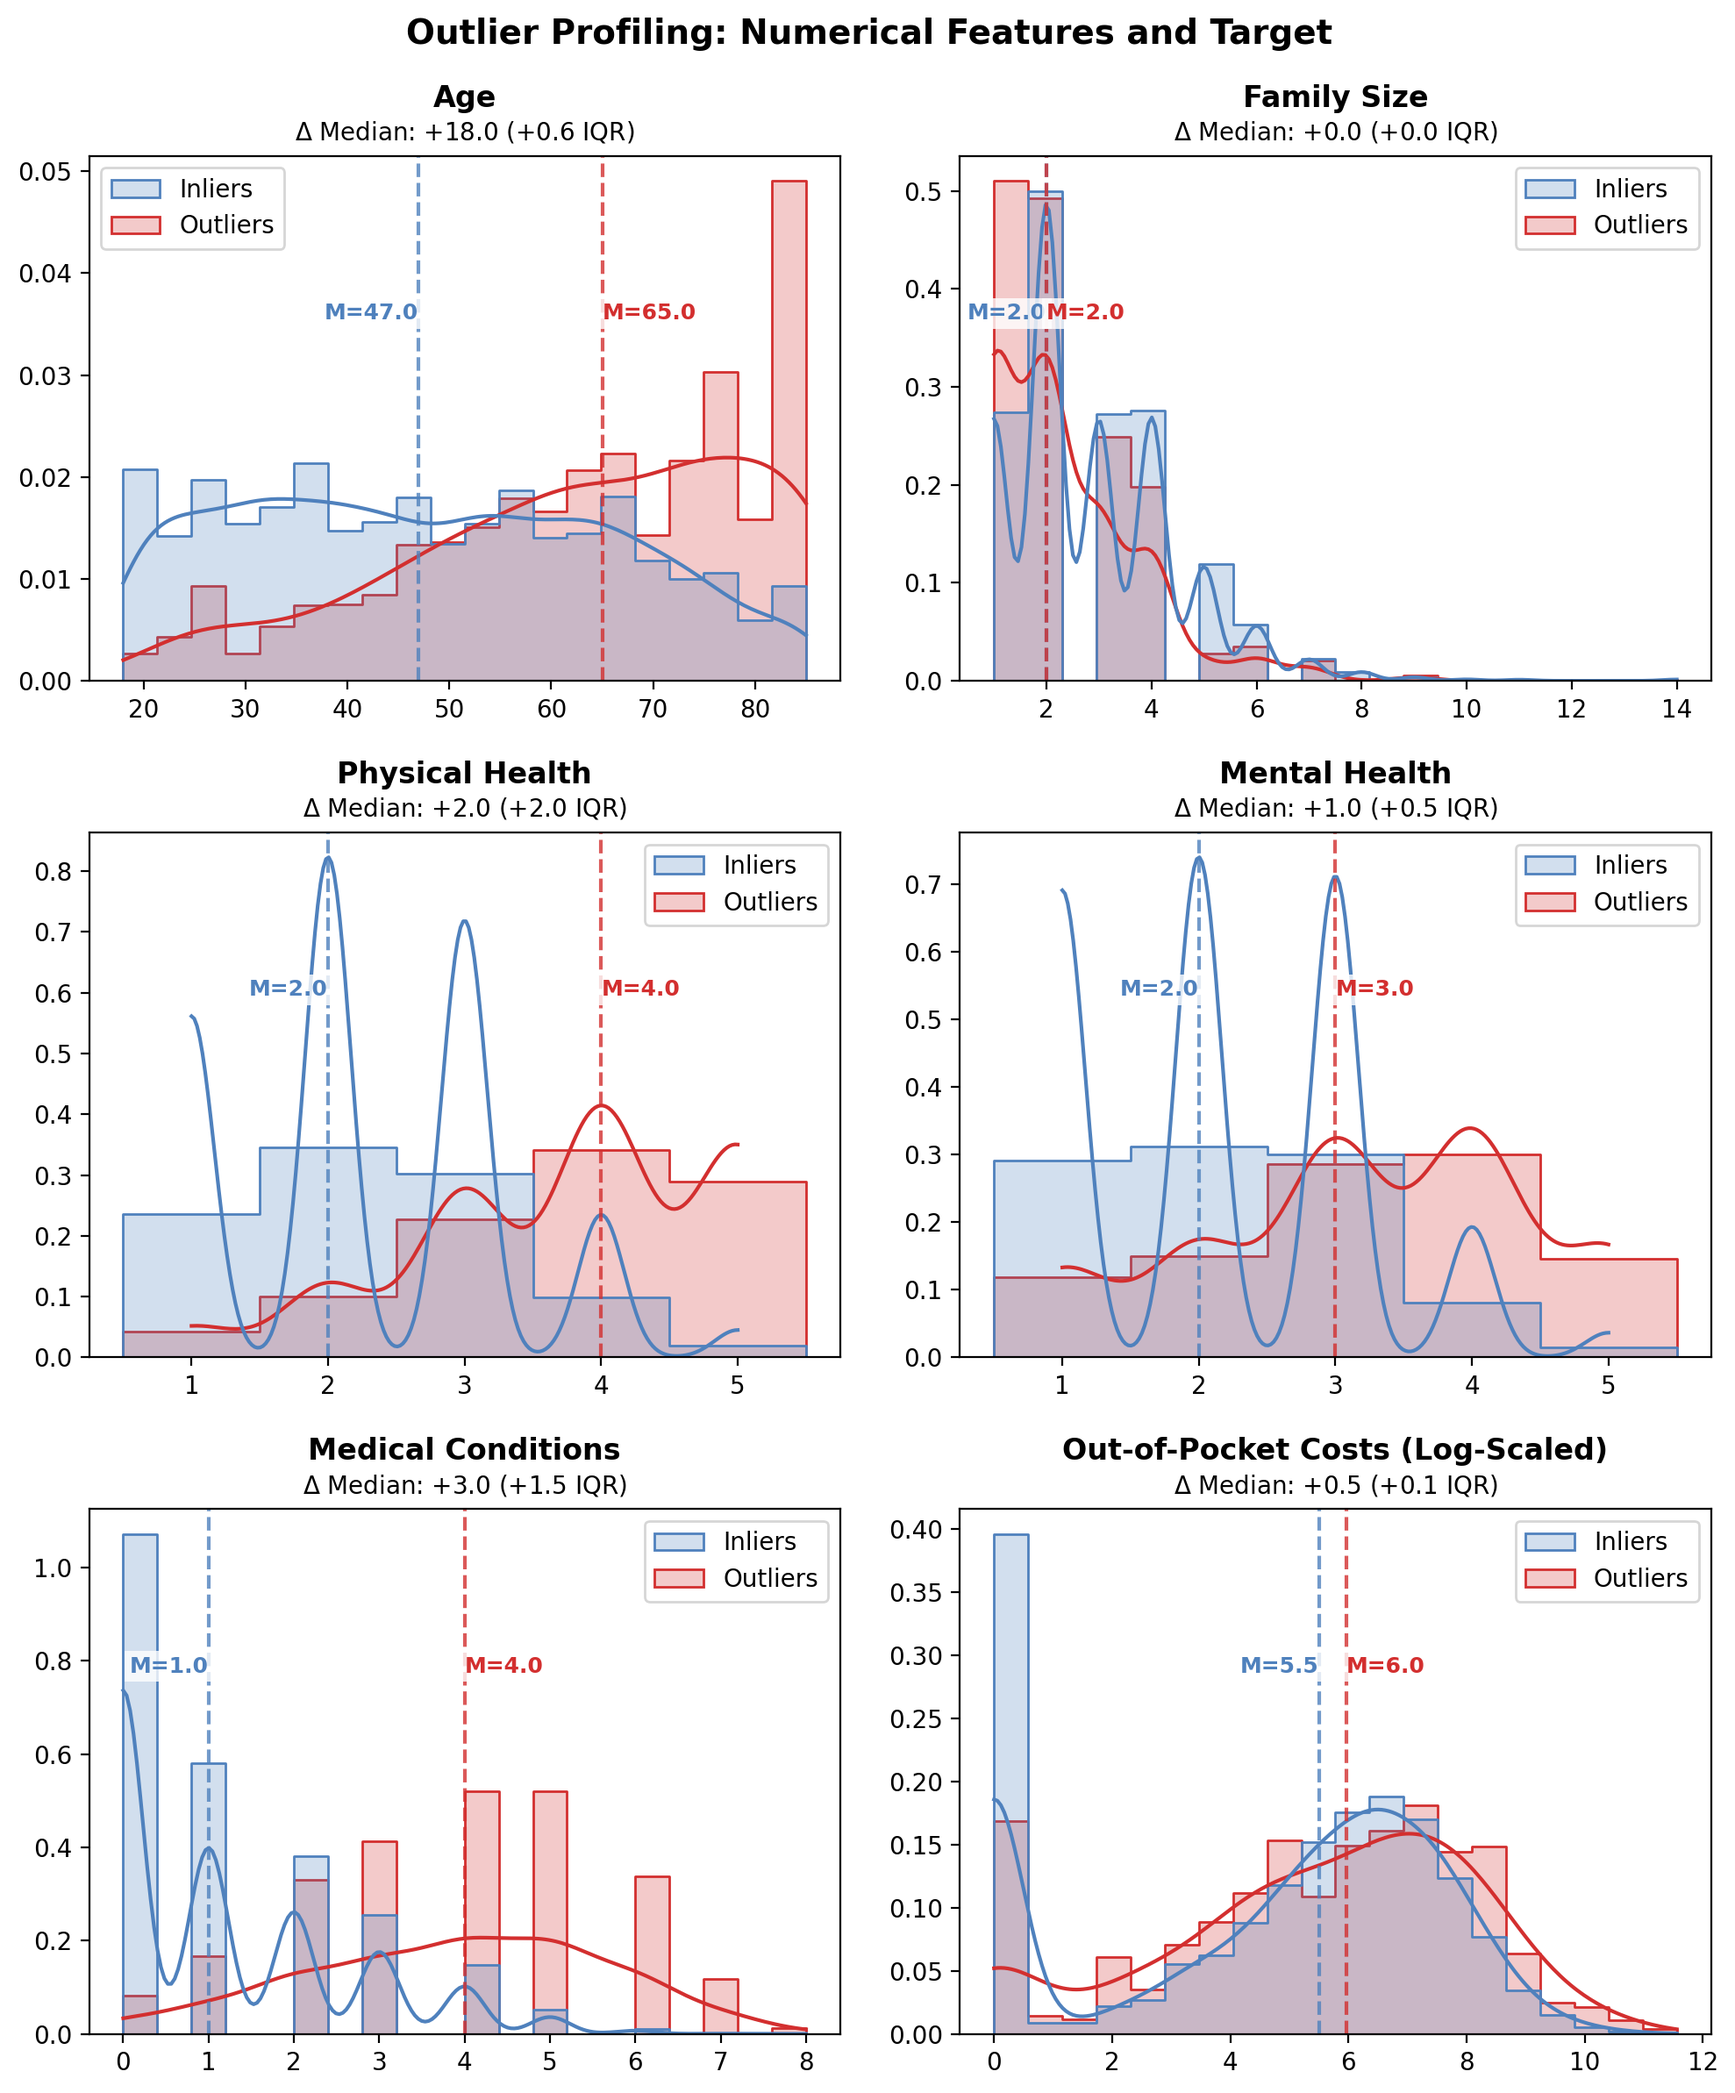
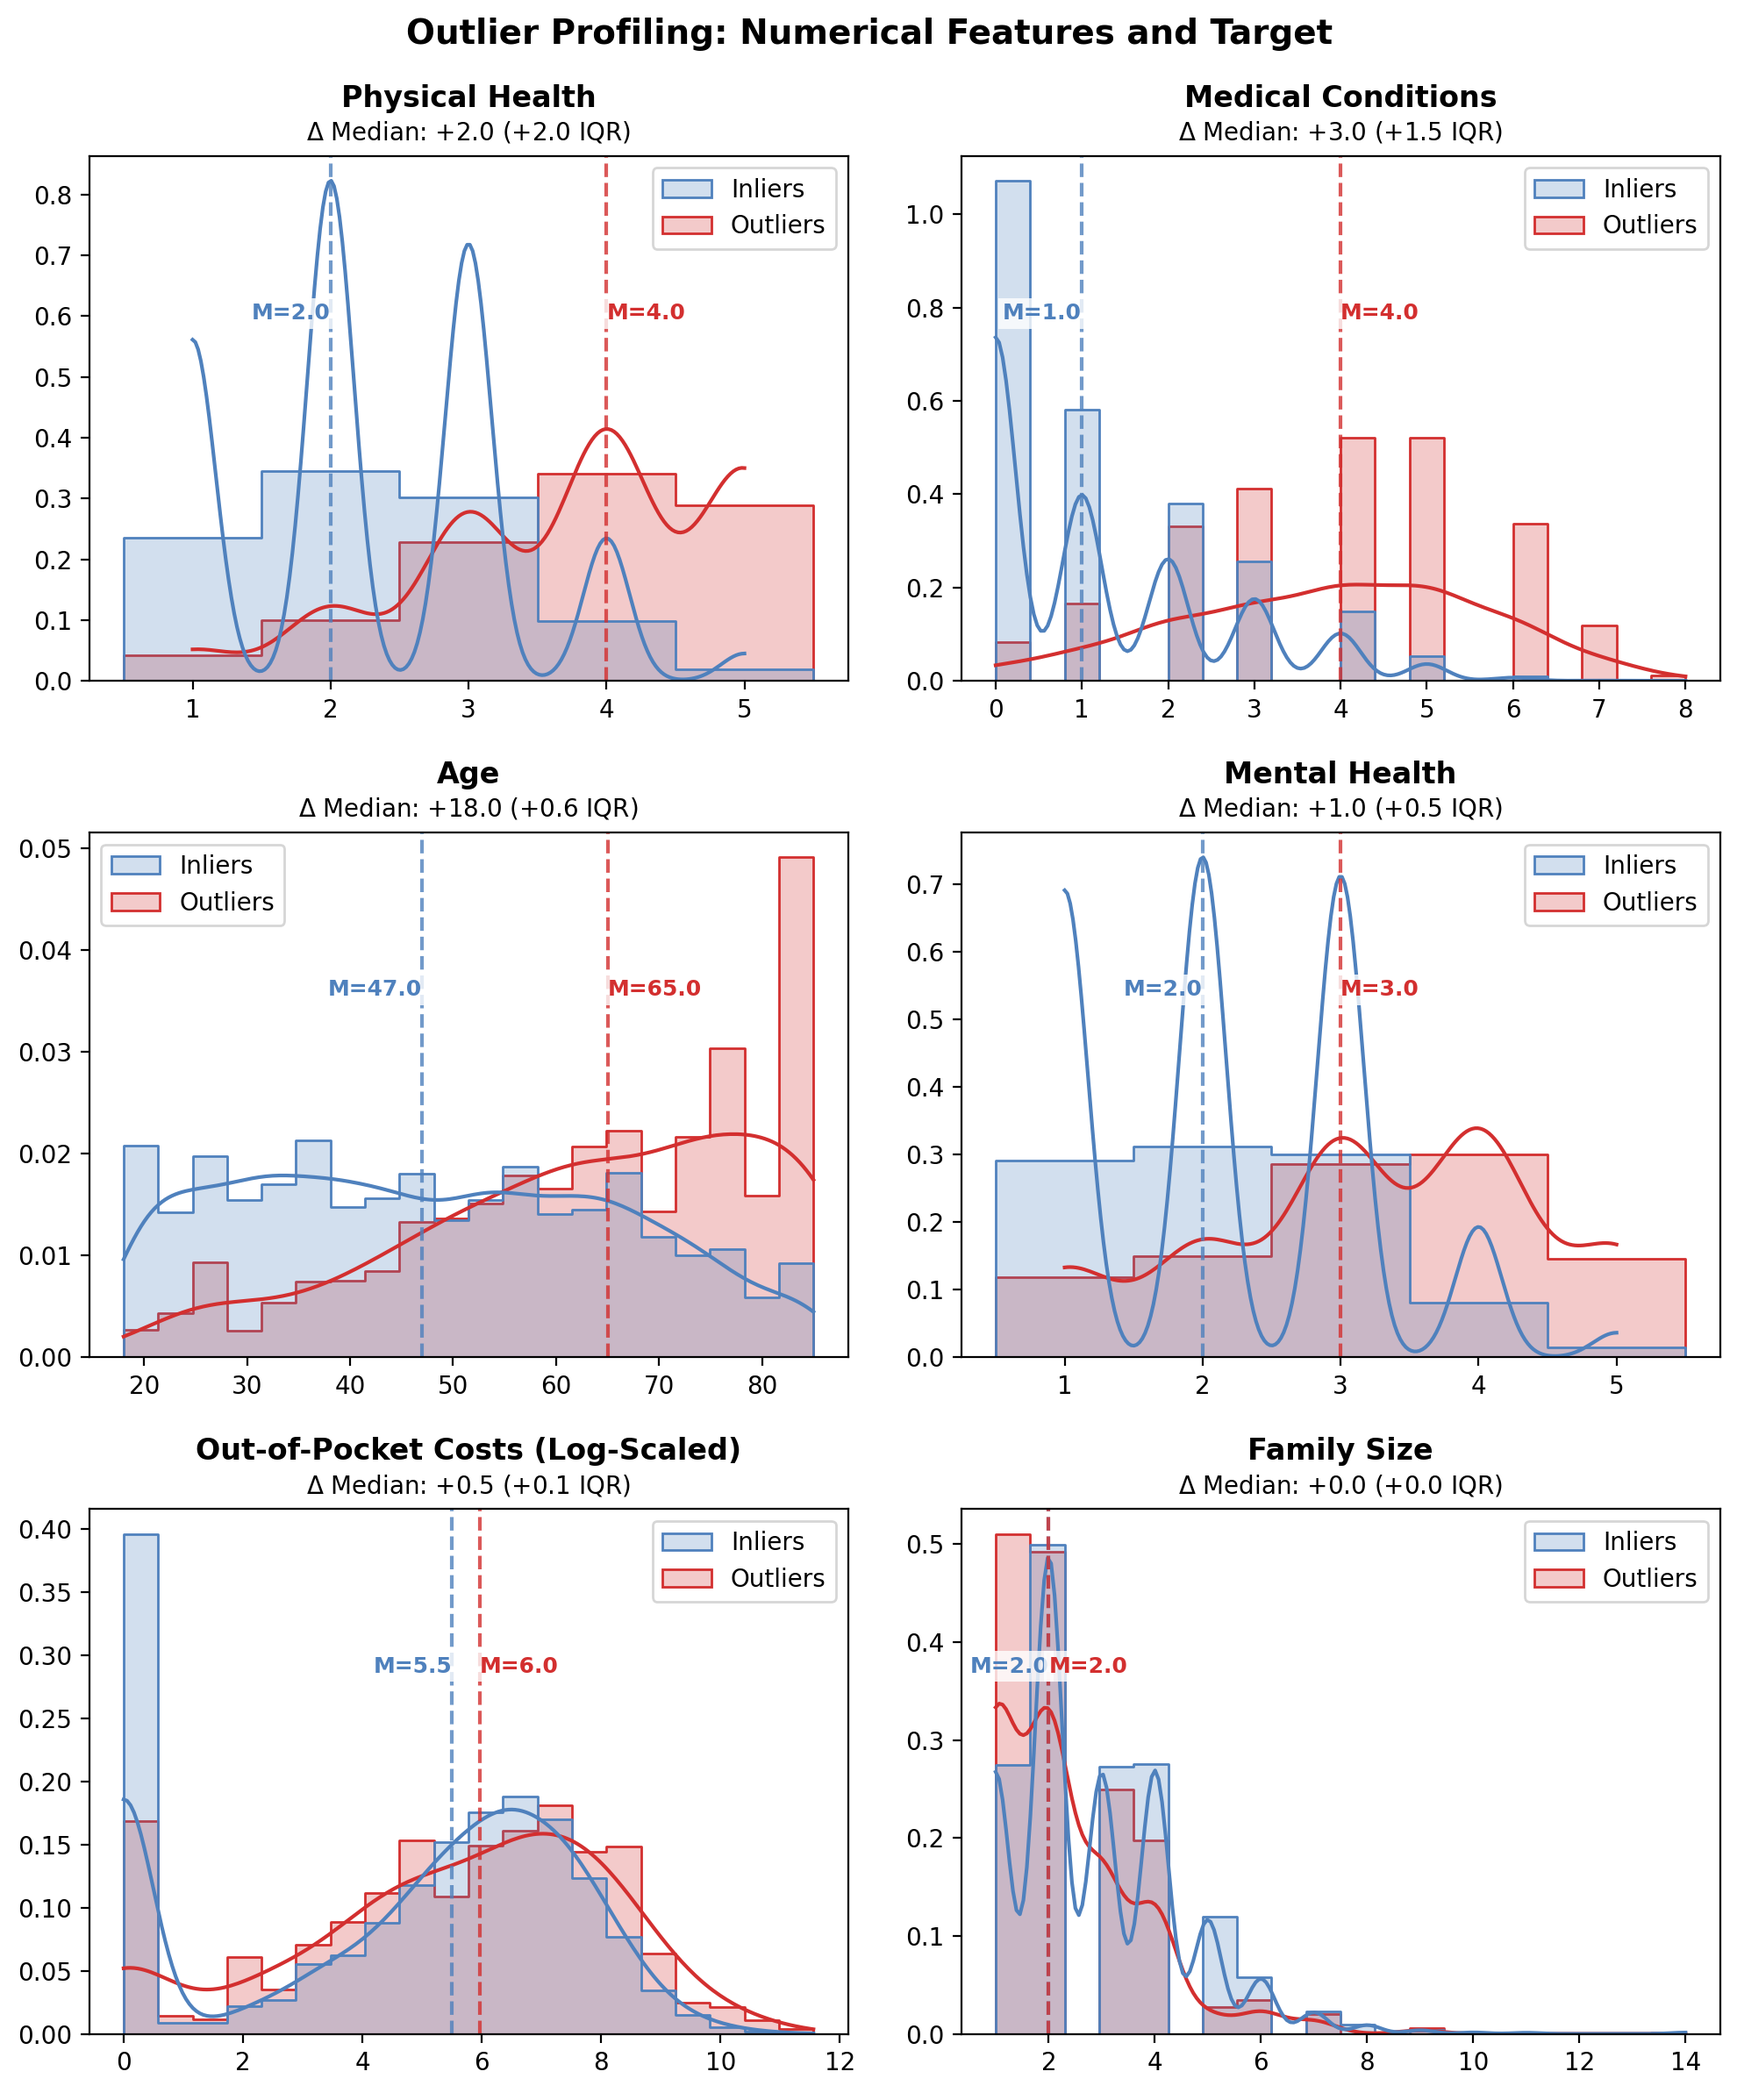
refactor(data): sort numerical columns by impact (IQR diff) for outlier numerical profile histograms

diff --git a/notebooks/medical_cost_prediction.py b/notebooks/medical_cost_prediction.py
@@ -1877,22 +1877,29 @@ for col in outlier_num_cols:
 # Calculate how many IQRs the outlier median is different from the inlier median
 outlier_stats_num["IQR Difference"] = outlier_stats_num["Difference"] / inlier_iqrs
 
-# Identify the top 4 numerical columns that drive outliers (based on IQR difference)
-outlier_num_drivers = outlier_stats_num["IQR Difference"].abs().sort_values(ascending=False).head(4).index.tolist()
+# Get all numerical columns sorted by absolute impact (IQR Difference) for profiling
+outlier_num_cols_sorted = outlier_stats_num["IQR Difference"].abs().sort_values(ascending=False).index.tolist()
 
-# Use log-scaled out-of-pocket costs for visualizations
-outlier_num_drivers_viz = [col if col != "TOTSLF23" else "TOTSLF23_LOG" for col in outlier_num_drivers]  
-outlier_num_cols_viz = [col if col != "TOTSLF23" else "TOTSLF23_LOG" for col in outlier_num_cols] 
+# Identify the top 4 numerical drivers (for pairwise plot)
+outlier_num_drivers = outlier_num_cols_sorted[:4]
+
+# Create lists for visualization (mapping TOTSLF23 to its log-scaled version)
+outlier_num_cols_viz = [col if col != "TOTSLF23" else "TOTSLF23_LOG" for col in outlier_num_cols_sorted]
+outlier_num_drivers_viz = [col if col != "TOTSLF23" else "TOTSLF23_LOG" for col in outlier_num_drivers] 
 
 # Display table (Renaming the index only for the view to keep the DF's raw IDs intact)
-outlier_stats_num.rename(index=DISPLAY_LABELS).sort_values(by="Difference", ascending=False).style \
+outlier_stats_num.rename(index=DISPLAY_LABELS).sort_values(by="IQR Difference", ascending=False).style \
     .pipe(add_caption, "Outlier Numeric Profile: Median Differences") \
     .format("{:.1f}") \
     .set_properties(**{"font-weight": "bold"}, subset=["Difference", "IQR Difference"])
 
 # %%
 # Outlier Numeric Profile: Overlapping Histograms of Numerical Features and Target
-fig, axes = plt.subplots(3, 2, figsize=(10, 12))
+n_features = len(outlier_num_cols_viz)
+n_cols = 2
+n_rows = math.ceil(n_features / n_cols)
+
+fig, axes = plt.subplots(3, 2, figsize=(n_cols * 5, n_rows * 4))
 axes_flat = axes.flatten()
 
 colors = {"Inliers": "#4F81BD", "Outliers": "#D32F2F"}
